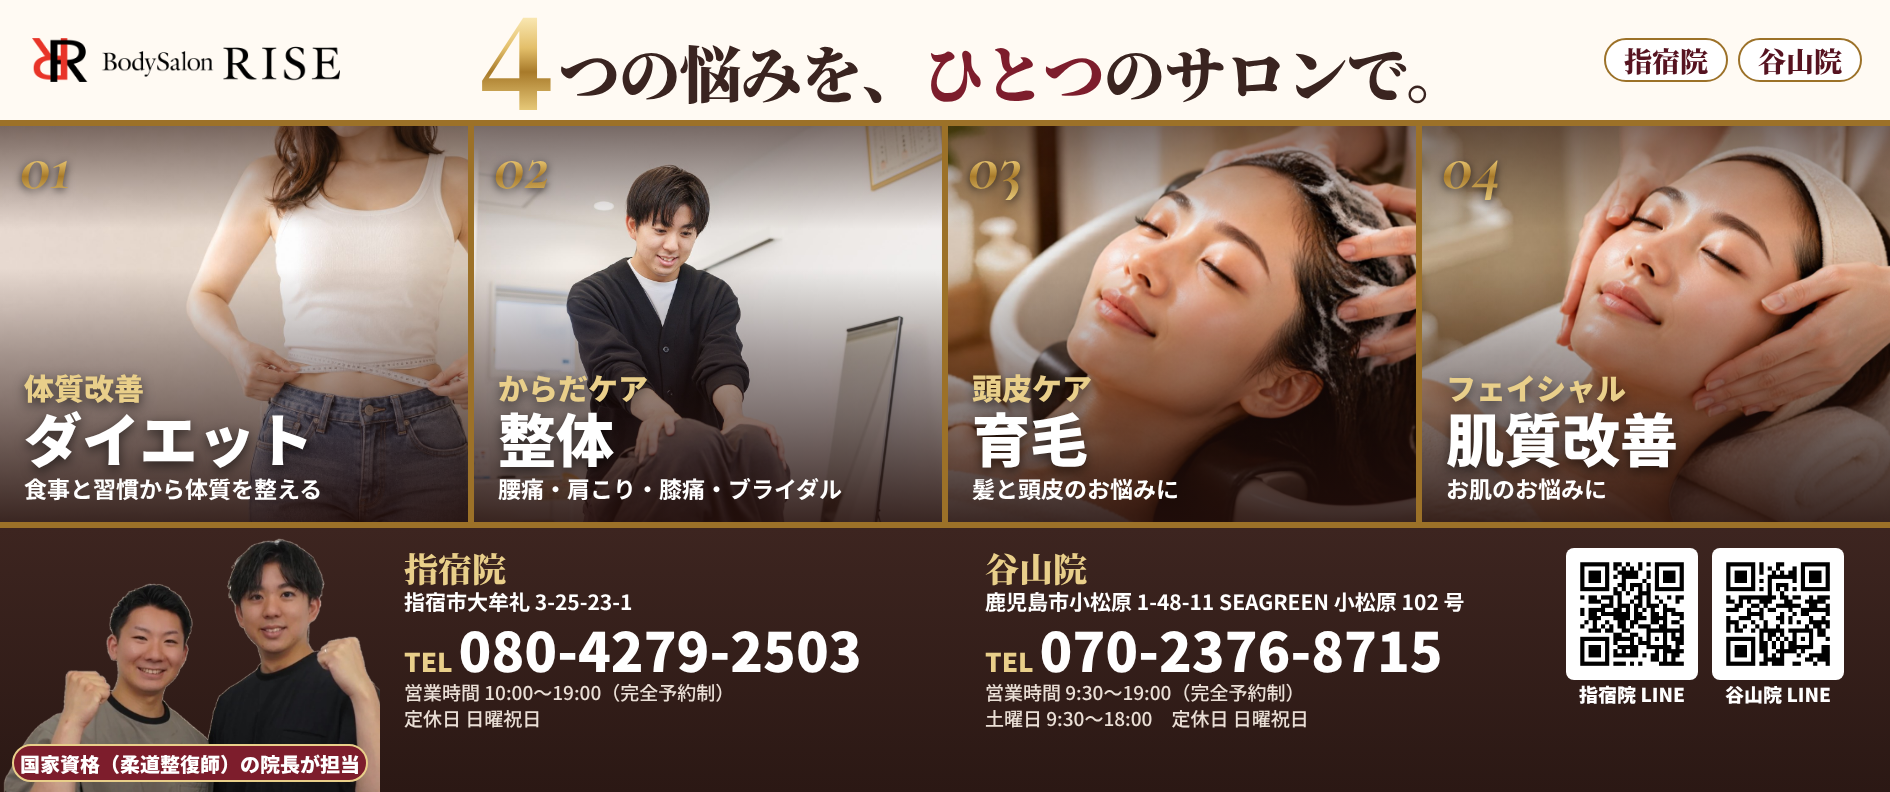
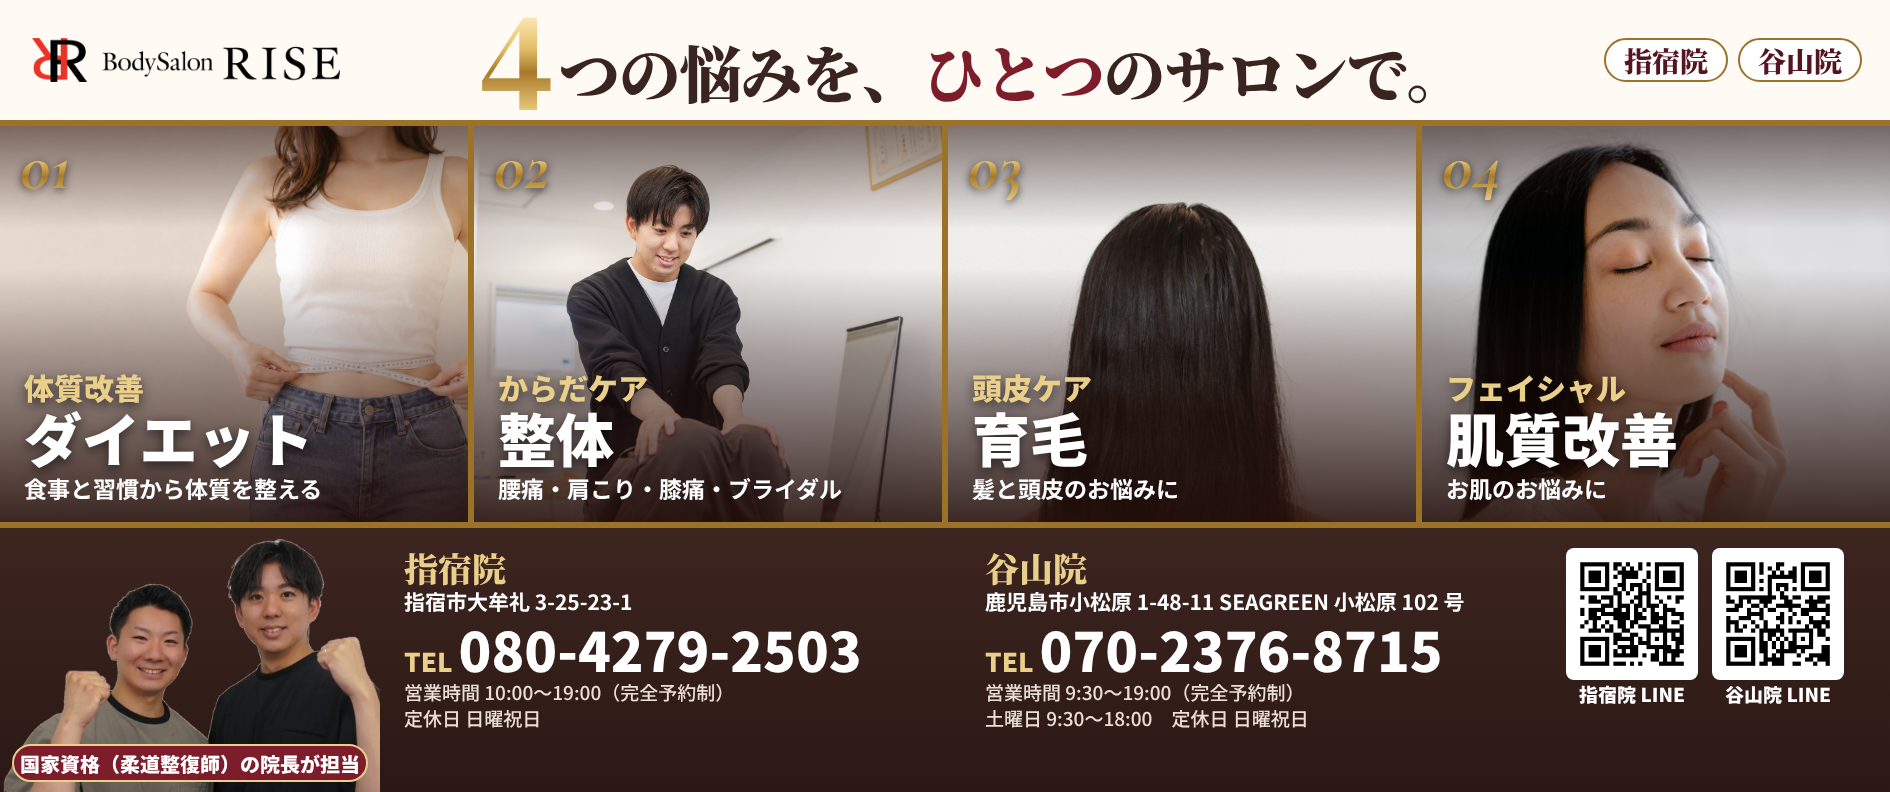
ライズ様：育毛・肌質改善の写真をPexelsの写真に差し替え（広告・帯・HP）
Claude-Session: https://claude.ai/code/session_01AEUD4z4Xri7e87iKXPW3R9

Changed region(s): [[0.4995, 0.1515, 1.0, 0.6667]]

diff --git a/sites/rise/index.html b/sites/rise/index.html
@@ -406,7 +406,7 @@ footer a{color:#fff}
         </div>
       </div>
       <div class="sl" data-i="3">
-        <div class="sl-img" style="background-image:url(img/ikumou.jpg);background-position:70% 40%"></div>
+        <div class="sl-img" style="background-image:url(img/ikumou.jpg);background-position:50% 5%"></div>
         <div class="wrap sl-copy">
           <p class="sl-en">03 HAIR CARE</p>
           <h2 class="sl-h">髪と頭皮の悩みも、<br><em class="gold">ひとりで抱えずに。</em></h2>
@@ -414,7 +414,7 @@ footer a{color:#fff}
         </div>
       </div>
       <div class="sl" data-i="4">
-        <div class="sl-img" style="background-image:url(img/hada.jpg);background-position:70% 40%"></div>
+        <div class="sl-img" style="background-image:url(img/hada.jpg);background-position:30% 36%"></div>
         <div class="wrap sl-copy">
           <p class="sl-en">04 SKIN CARE</p>
           <h2 class="sl-h">肌の調子も、<br><em class="gold">いっしょに見直す。</em></h2>
@@ -463,11 +463,11 @@ footer a{color:#fff}
         <div class="pl-body"><span class="pl-no">02</span><h3>整体</h3><p>腰痛・肩こり・膝の痛み、骨盤矯正、ブライダル整体</p><span class="pl-go">くわしく見る</span></div>
       </a>
       <a class="pl" href="#ikumou">
-        <div class="pl-ph"><img src="img/ikumou.jpg" alt="頭皮ケアの様子" loading="lazy" style="object-position:60% 40%"></div>
+        <div class="pl-ph"><img src="img/ikumou.jpg" alt="つやのある黒髪" loading="lazy" style="object-position:50% 2%"></div>
         <div class="pl-body"><span class="pl-no">03</span><h3>育毛</h3><p>頭皮の状態を確かめて、一人ひとりに合ったケアをご提案</p><span class="pl-go">くわしく見る</span></div>
       </a>
       <a class="pl" href="#hada">
-        <div class="pl-ph"><img src="img/hada.jpg" alt="フェイシャルケアの様子" loading="lazy" style="object-position:50% 40%"></div>
+        <div class="pl-ph"><img src="img/hada.jpg" alt="素肌の美しい女性" loading="lazy" style="object-position:30% 36%"></div>
         <div class="pl-body"><span class="pl-no">04</span><h3>肌質改善</h3><p>肌の状態に合わせて、無理のないケアをご提案</p><span class="pl-go">くわしく見る</span></div>
       </a>
     </div>
@@ -542,7 +542,7 @@ footer a{color:#fff}
         </div>
       </article>
       <article id="ikumou">
-        <div class="photo"><img src="img/ikumou.jpg" alt="頭皮ケアの様子" loading="lazy" style="object-position:60% 40%"></div>
+        <div class="photo"><img src="img/ikumou.jpg" alt="つやのある黒髪" loading="lazy" style="object-position:50% 2%"></div>
         <div class="body">
           <span class="svc-no">03 HAIR CARE</span>
           <h3>育毛</h3>
@@ -552,7 +552,7 @@ footer a{color:#fff}
         </div>
       </article>
       <article id="hada">
-        <div class="photo"><img src="img/hada.jpg" alt="フェイシャルケアの様子" loading="lazy" style="object-position:50% 40%"></div>
+        <div class="photo"><img src="img/hada.jpg" alt="素肌の美しい女性" loading="lazy" style="object-position:30% 36%"></div>
         <div class="body">
           <span class="svc-no">04 SKIN CARE</span>
           <h3>肌質改善</h3>

diff --git a/sites/rise/mytownguide/ad-1page.html b/sites/rise/mytownguide/ad-1page.html
@@ -106,8 +106,8 @@ body{width:1100px;height:1556px;overflow:hidden;position:relative;background:var
 <div class="grid">
   <div class="cell c1"><img src="../img/ai-waist.jpg" style="object-position:62% 45%" alt=""><div class="tx"><span class="no goldtxt">01</span><h3><small>体質改善</small>ダイエット</h3><p>食事と習慣から体質を整える</p></div></div>
   <div class="cell c2"><img src="../img/r-treat3.jpg" style="object-position:40% 40%" alt=""><div class="tx"><span class="no goldtxt">02</span><h3><small>からだケア</small>整体</h3><p>腰痛・肩こり・膝痛・ブライダル</p></div></div>
-  <div class="cell c3"><img src="../img/ikumou.jpg" style="object-position:55% 35%" alt=""><div class="tx"><span class="no goldtxt">03</span><h3><small>頭皮ケア</small>育毛</h3><p>髪と頭皮のお悩みに</p></div></div>
-  <div class="cell c4"><img src="../img/hada.jpg" style="object-position:45% 40%" alt=""><div class="tx"><span class="no goldtxt">04</span><h3><small>フェイシャル</small>肌質改善</h3><p>お肌のお悩みに</p></div></div>
+  <div class="cell c3"><img src="../img/ikumou.jpg" style="object-position:50% 2%" alt=""><div class="tx"><span class="no goldtxt">03</span><h3><small>頭皮ケア</small>育毛</h3><p>髪と頭皮のお悩みに</p></div></div>
+  <div class="cell c4"><img src="../img/hada.jpg" style="object-position:30% 36%" alt=""><div class="tx"><span class="no goldtxt">04</span><h3><small>フェイシャル</small>肌質改善</h3><p>お肌のお悩みに</p></div></div>
 </div>
 <div class="badge goldbg"><div class="in">
   <div class="r1"><span class="n4 goldtxt">4</span><span class="t1">つの悩みを、</span></div>

diff --git a/sites/rise/mytownguide/backcover-band.html b/sites/rise/mytownguide/backcover-band.html
@@ -51,8 +51,8 @@ body{width:945px;height:396px;overflow:hidden;position:relative;font-family:"Not
 <div class="row">
   <div class="cell"><img src="../img/ai-waist.jpg" style="object-position:62% 45%" alt=""><span class="no goldtxt">01</span><div class="tx"><h3><small>体質改善</small>ダイエット</h3><p>食事と習慣から体質を整える</p></div></div>
   <div class="cell"><img src="../img/r-treat3.jpg" style="object-position:42% 40%" alt=""><span class="no goldtxt">02</span><div class="tx"><h3><small>からだケア</small>整体</h3><p>腰痛・肩こり・膝痛・ブライダル</p></div></div>
-  <div class="cell"><img src="../img/ikumou.jpg" style="object-position:48% 35%" alt=""><span class="no goldtxt">03</span><div class="tx"><h3><small>頭皮ケア</small>育毛</h3><p>髪と頭皮のお悩みに</p></div></div>
-  <div class="cell"><img src="../img/hada.jpg" style="object-position:50% 40%" alt=""><span class="no goldtxt">04</span><div class="tx"><h3><small>フェイシャル</small>肌質改善</h3><p>お肌のお悩みに</p></div></div>
+  <div class="cell"><img src="../img/ikumou.jpg" style="object-position:50% 2%" alt=""><span class="no goldtxt">03</span><div class="tx"><h3><small>頭皮ケア</small>育毛</h3><p>髪と頭皮のお悩みに</p></div></div>
+  <div class="cell"><img src="../img/hada.jpg" style="object-position:30% 36%" alt=""><span class="no goldtxt">04</span><div class="tx"><h3><small>フェイシャル</small>肌質改善</h3><p>お肌のお悩みに</p></div></div>
 </div>
 <div class="foot">
   <div class="staff"><img src="img/inchou-cut.png" alt="院長2名"><span>国家資格（柔道整復師）の院長が担当</span></div>

diff --git a/sites/rise/img/出典.md b/sites/rise/img/出典.md
@@ -26,3 +26,7 @@
 - mytownguide/img/inchou-cut.png … inchou2.jpg の背景を抜いたもの。
 - mytownguide/img/qr-*.png … 今の広告（マイタウンガイド指宿版2025 2ページ目）のQRを読み取り、同じ宛先で作り直したもの（指宿院LINE https://lin.ee/f8p4RiD／谷山院LINE https://lin.ee/iiv7BQk／Instagram wada.ibusuki・taniyama.diet）。読み取りで一致を確認済み。
 - 参考チラシの調査と出典は mytownguide/参考チラシ調査.md。比較画像（compare-*.png）の参考側はココナラ出品ページの作品画像で、社内確認用（公開しない）。
+
+## 2026-11-24 差し替え（Pexels・商用無料、クレジット表記不要）
+- ikumou.jpg … 黒髪の後ろ姿 https://www.pexels.com/photo/5301566/ （前の画像は ikumou-old.jpg）
+- hada.jpg … 目を閉じた女性の素肌 https://www.pexels.com/photo/7578245/ （前の画像は hada-old.jpg）
